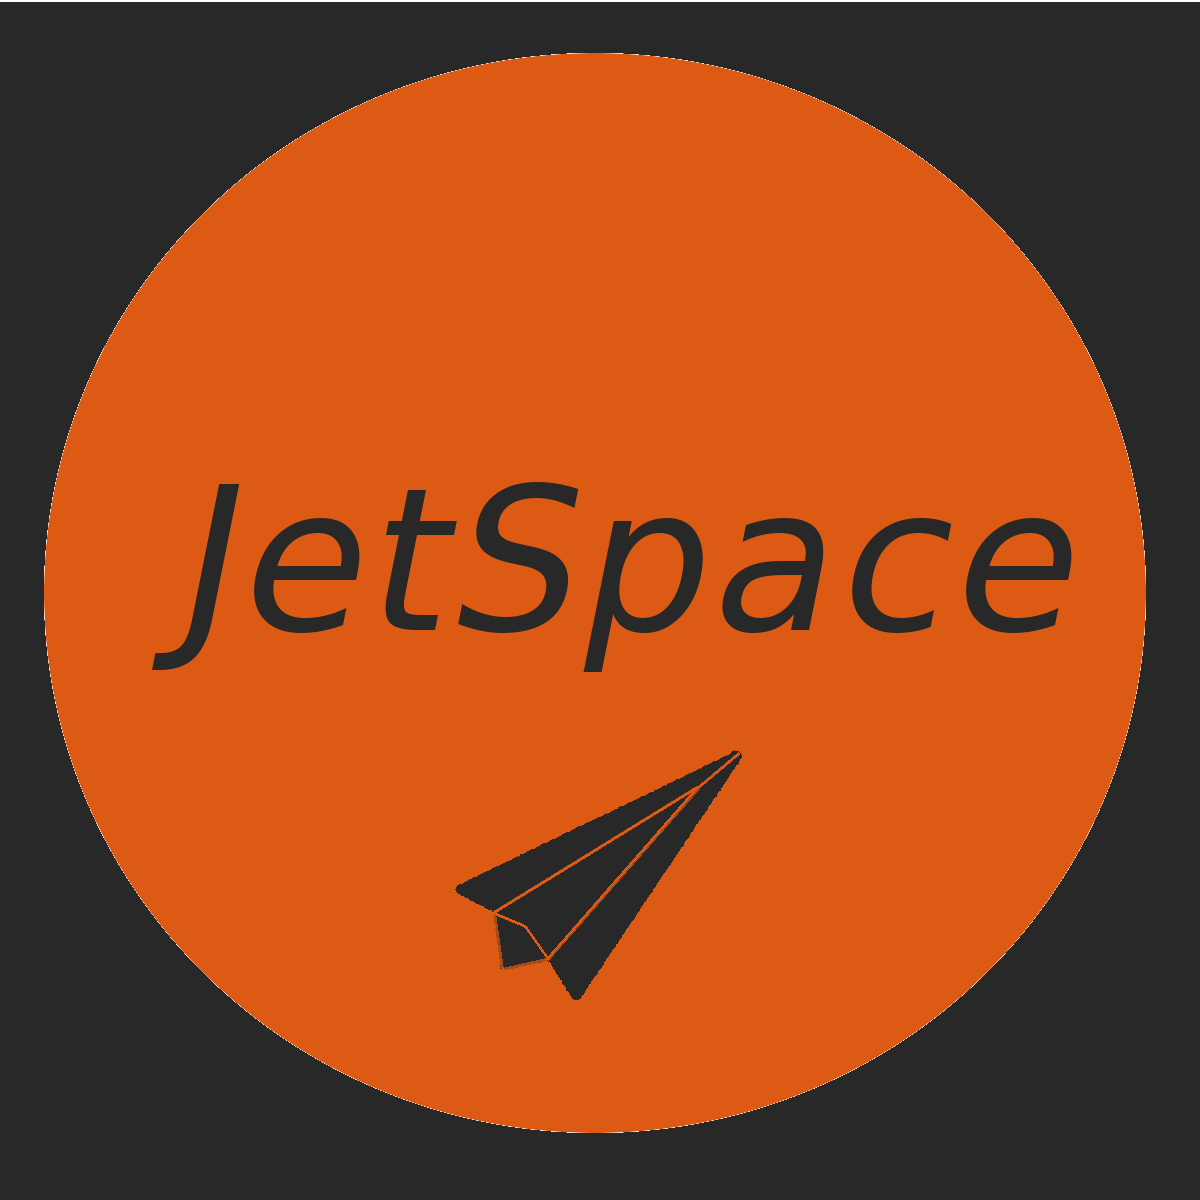
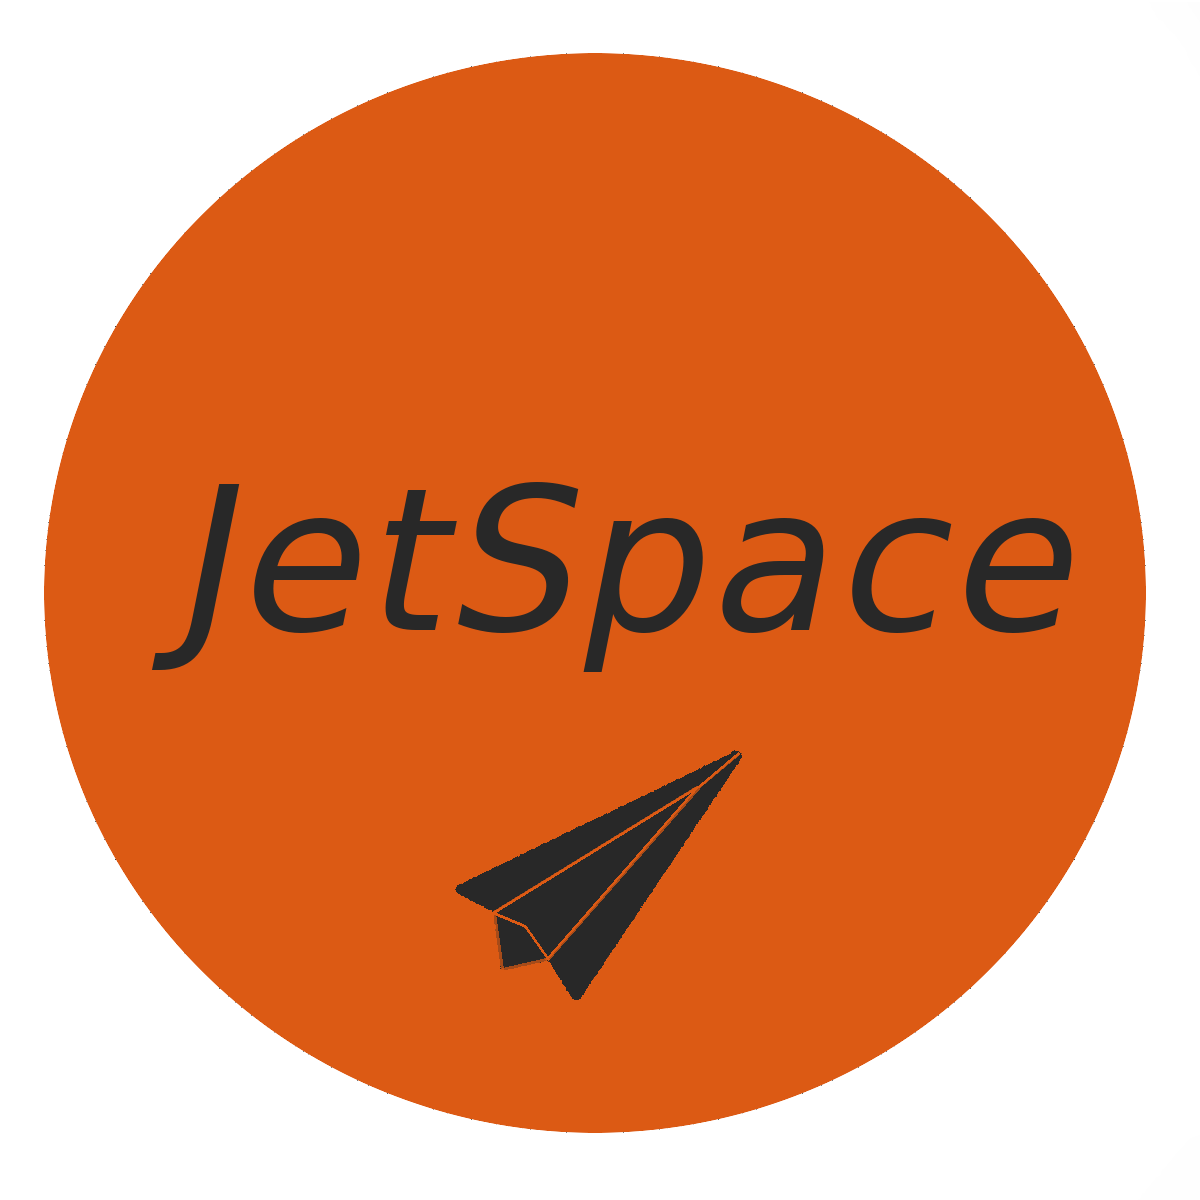
Version 0.91-5
Fixed default themes
Added transparent icon (default)
Updated translations

diff --git a/themes/side-1.0-solid/side-session/gtk.css b/themes/side-1.0-solid/side-session/gtk.css
@@ -33,6 +33,7 @@
 
 #SiDEPanel GtkLabel {
     color: @fg_panel;
+		transition: none;
 }
 
 /*  -> Menus */
@@ -80,7 +81,7 @@
   border-radius: 2px;
   padding: 5px;
   border: 0px;
-  
+
   background-color: transparent;
   background-image: none;
   transition: none;
@@ -149,4 +150,3 @@
 	color: shade(@fg_panel, 0.02);
 
 }
-

diff --git a/themes/side-1.0/side-session/gtk.css b/themes/side-1.0/side-session/gtk.css
@@ -35,6 +35,7 @@
 
 #SiDEPanel GtkLabel {
     color: @fg_panel;
+		transition: none;
 }
 
 /*  -> Menus */
@@ -82,7 +83,7 @@
   border-radius: 2px;
   padding: 5px;
   border: 0px;
-  
+
   background-color: transparent;
   background-image: none;
   transition: none;
@@ -152,4 +153,3 @@
 	color: shade(@fg_panel, 0.02);
 
 }
-

diff --git a/shared/info.h b/shared/info.h
@@ -7,7 +7,7 @@ For more details view file 'LICENSE'
 //SOME SHARED INFOS
 
 //DESKTOP
-#define VERSION "0.91-4"
+#define VERSION "0.91-5"
 #define COPYRIGHT "Copyright (c) 2015 Marius Messerschmidt"
 #define DISCRIPTION "Simple Desktop Enviroment"
 
